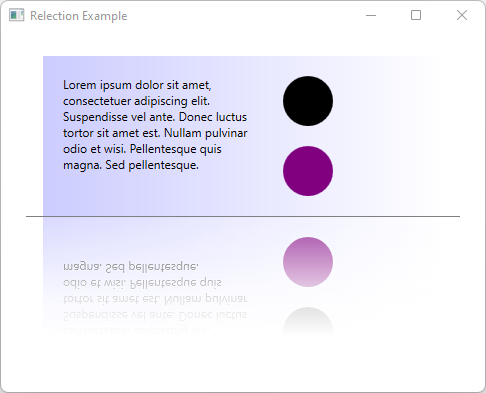
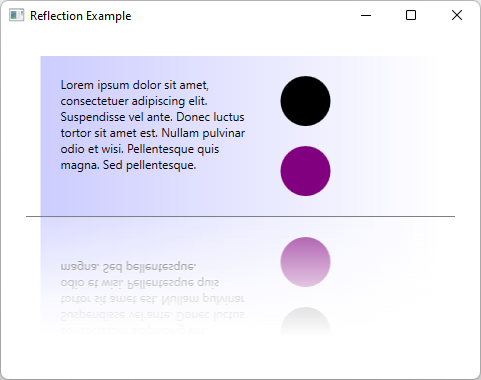
Fix spelling on window title, hahaha!

diff --git a/dotnet-desktop-guide/framework/wpf/graphics-multimedia/snippets/how-to-create-a-reflection/xaml/MainWindow.xaml b/dotnet-desktop-guide/framework/wpf/graphics-multimedia/snippets/how-to-create-a-reflection/xaml/MainWindow.xaml
@@ -5,7 +5,7 @@
         xmlns:mc="http://schemas.openxmlformats.org/markup-compatibility/2006"
         xmlns:local="clr-namespace:WpfApp1"
         mc:Ignorable="d"
-        Title="Relection Example" >
+        Title="Reflection Example" >
     <!--<Reflection>-->
     <StackPanel Margin="25" Height="400">
 
